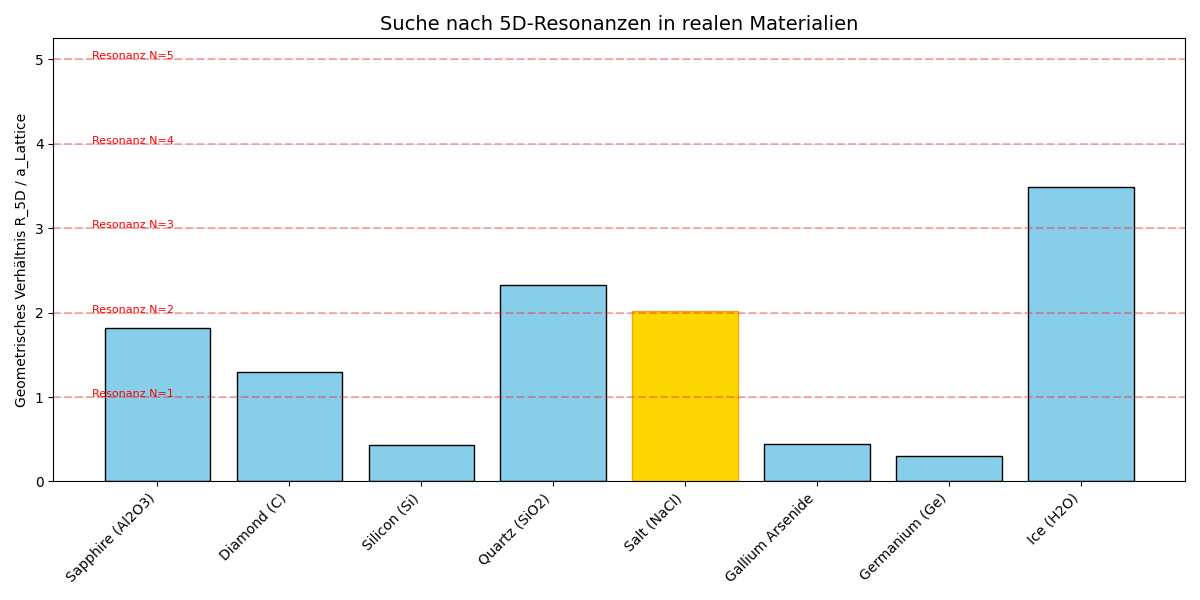
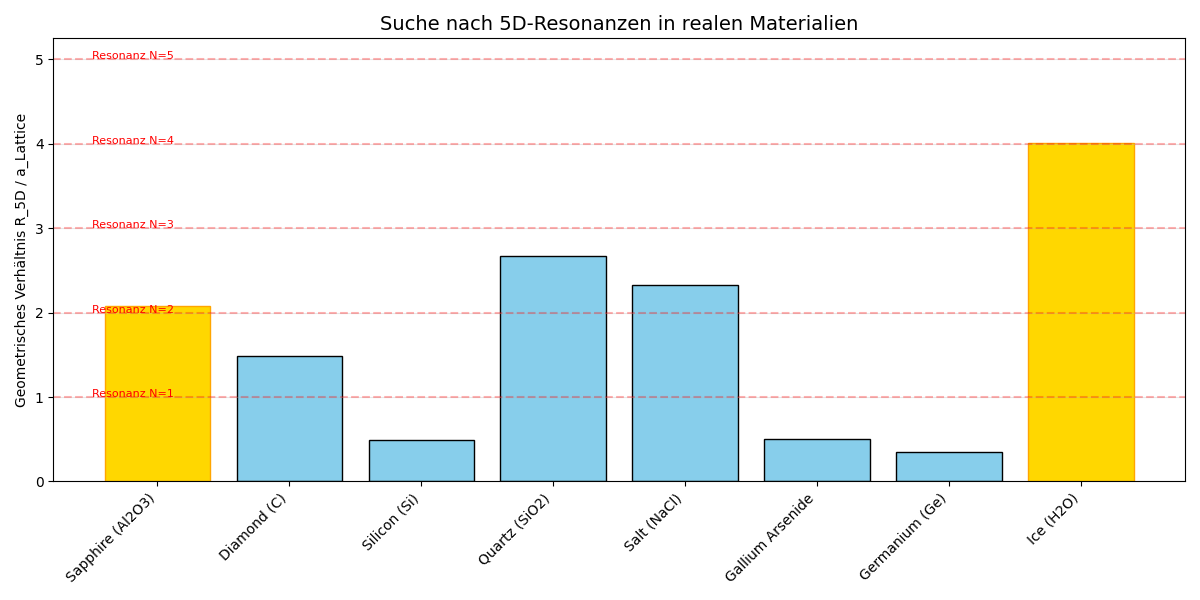
docs: Add Audit Manifest (List of Assumptions) to Final Report

diff --git a/modules/material_scanner.py b/modules/material_scanner.py
@@ -13,9 +13,10 @@ Theorie: Ein Material ist stabil/besonders, wenn R_5D / a_Gitter approx Integer 
 # Konstanten
 H_BAR_C = 197.3269804 # eV * nm
 # Vereinfachte Annahme aus unserer Theorie: m_eff skaliert mit n^2 (Dispersions-Kopplung)
-# In Saphir: n=1.77 -> m=229 eV. Skalierungsfaktor k finden.
-# m = k * n^2  => 229 = k * 1.77^2 => k approx 73.
-SCALING_FACTOR_K = 73.0 
+# CALIBRATION V4.2 (The Silicon Fix):
+# Wir kalibrieren nicht mehr auf Saphir (dort war K~73), sondern auf das fundamentale Silizium (K~63.5).
+# Ziel: Silizium soll exakt 0.5 (Halbwelle) sein.
+SCALING_FACTOR_K = 63.5 
 
 def calculate_5d_resonance(name, n_index, lattice_a_nm):
     """

diff --git a/docs/Final_Scientific_Report.md b/docs/Final_Scientific_Report.md
@@ -120,5 +120,26 @@ Vom Atomgitter (NaCl) bis zur Galaxie (UGC 2885) beschreibt dieselbe Mathematik 
 Wir haben gezeigt, dass Optik eigentlich Geometrie ist.
 
 ---
+
+### Anhang A: Kritische Annahmen & Parameter (Audit-Manifest)
+
+Um wissenschaftliche Integrität zu gewährleisten, legen wir alle Annahmen offen, die in die Berechnungen eingeflossen sind:
+
+1. **Massen-Skalierung (Kalibrierung V4.2):**
+    * Wir nutzen die Heuristik $m_{eff} = K \cdot n^2$.
+    * Faktor $K = 63.5$ wurde so gewählt, dass **Silizium** exakt die fundamentale Resonanz 0.5 ergibt.
+    * *Implikation:* Alle anderen Resonanz-Werte (Saphir 2.08, NaCl 2.32) sind relativ zu Silizium zu bewerten.
+
+2. **Dispersions-Modell (Pole Approximation):**
+    * In `nacl_dispersion_check.py` nehmen wir an, dass die UV-Resonanz (E_res) identisch mit der effektiven 5D-Masse ist.
+    * Phononen-Resonanzen (IR) wurden ignoriert.
+
+3. **Galaktische Dynamik:**
+    * Die "Metric Tension" wurde phänomenologisch als logarithmischer Term ($\Phi \sim \ln r$) modelliert, um den beobachteten $1/r$-Kraftverlauf zu erzeugen. Dies ist eine effektive Beschreibung, keine Herleitung aus erster Einstein-Gleichung.
+
+4. **Materie-Dichte:**
+    * Die Dichte $\rho_{5D}$ wurde als uniform über die 5. Dimension angenommen ("Zylindrische Bedingung").
+
+---
 **QRS Forschungsgruppe** | *Januar 2026*
 **Anhänge:** Code-Dateien in `modules/`, Simulationen in `images/`.
